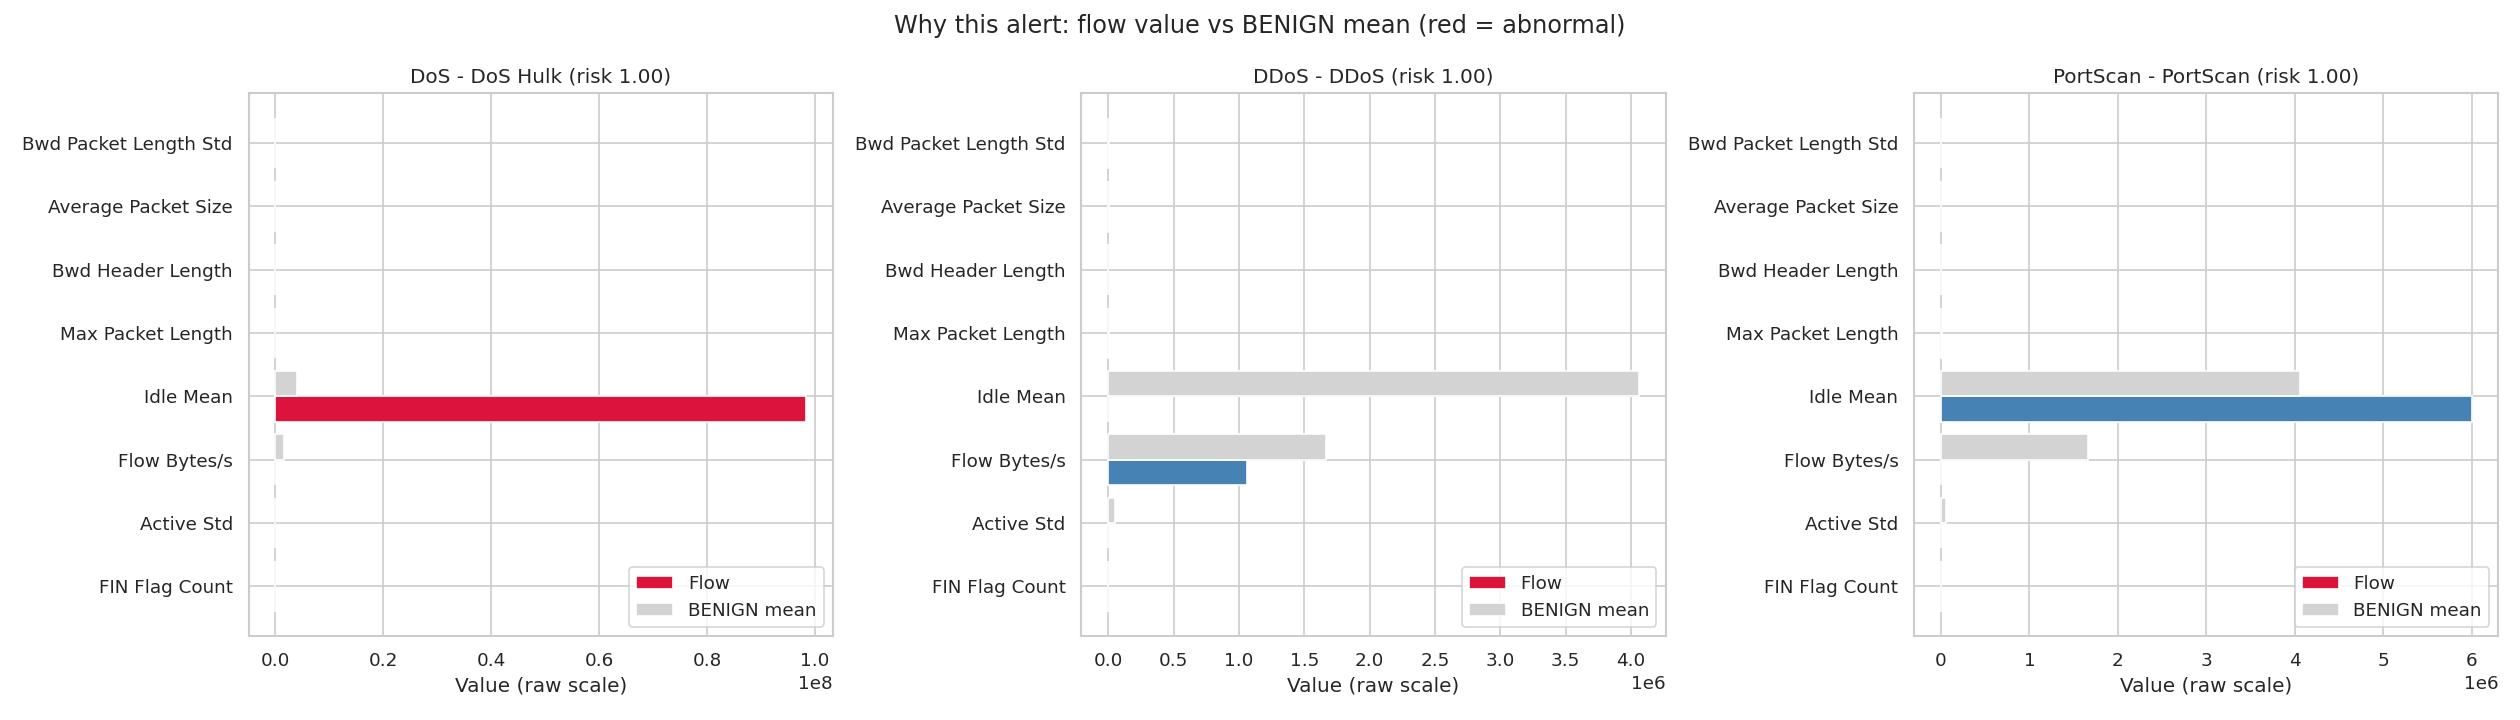
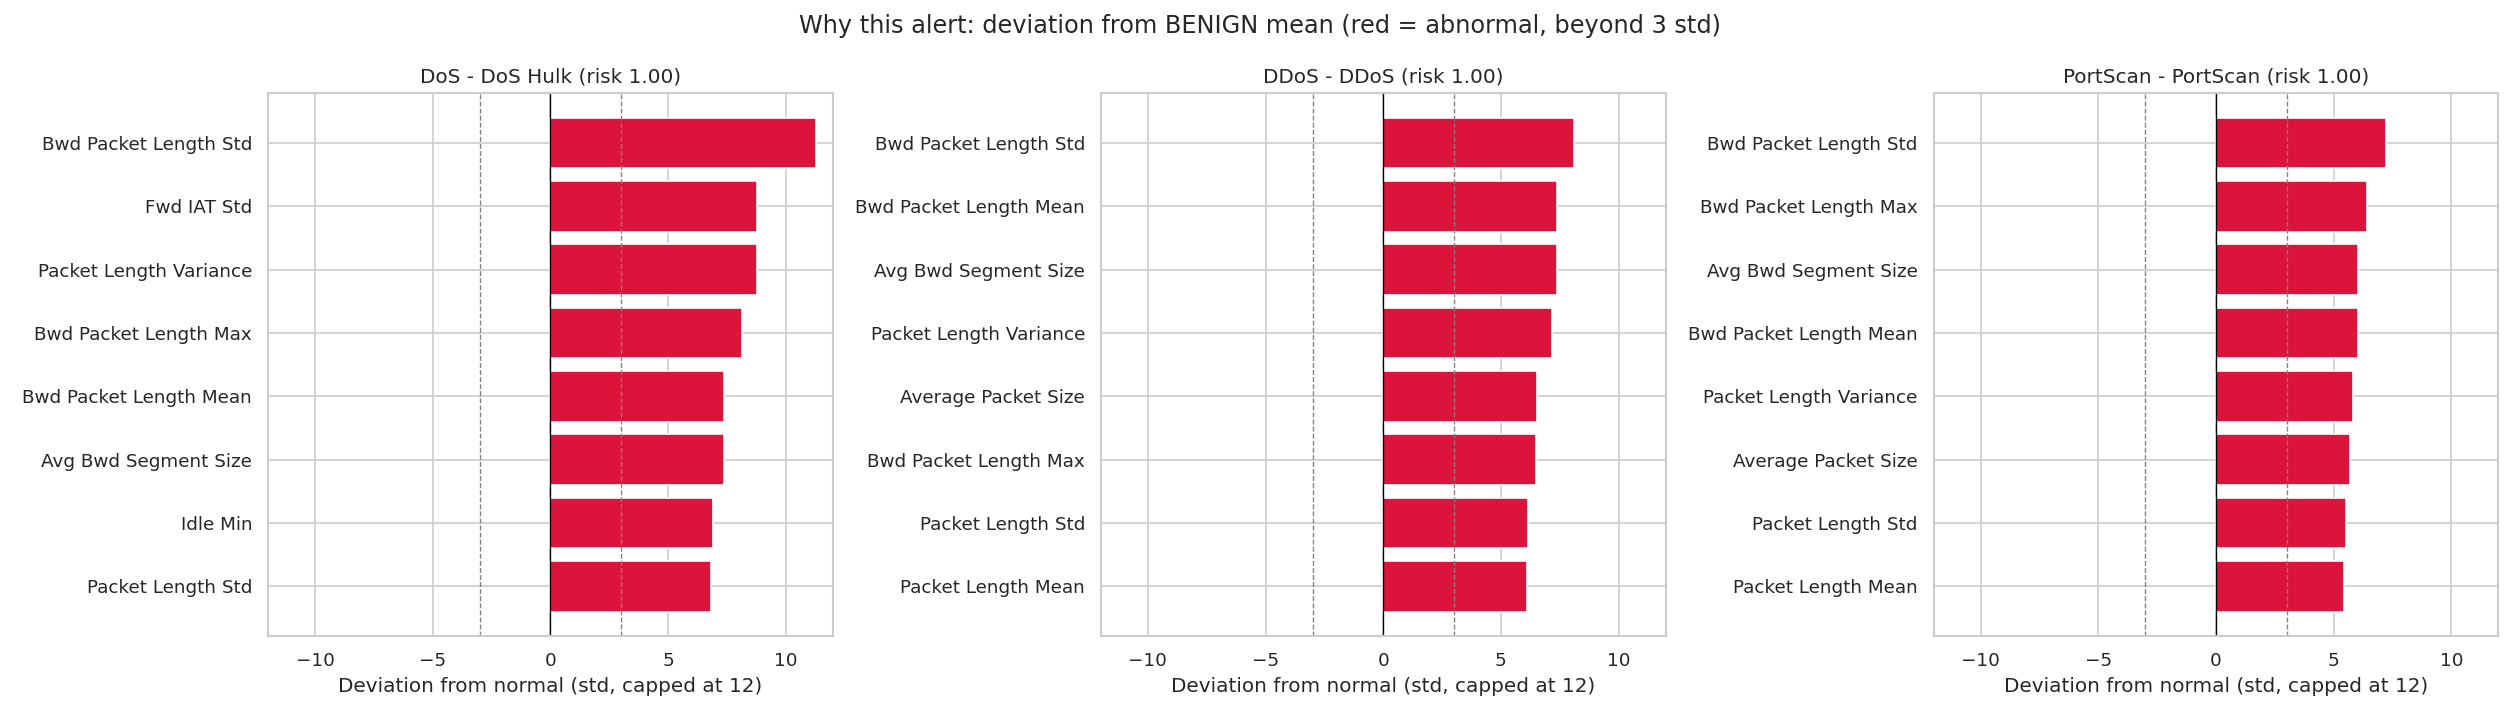
Fix per-alert explanation figure (report Fig 11)
Plot each feature's signed deviation from the BENIGN mean (z-score) instead of raw values, so all features share one comparable scale and the largest-magnitude feature (Idle Mean) no longer dominates the chart. Colour by |deviation| > 3 std in both directions (was a one-directional ratio > 2), so abnormally-low values are flagged too and 'red = abnormal' now matches the figure. Show the most-anomalous features per flow instead of the global top-8. Regenerates reports/figures/10_explication_alerte.png.

diff --git a/notebooks/04_evaluation.py b/notebooks/04_evaluation.py
@@ -192,14 +192,21 @@ plt.show()
 # %% [markdown]
 # ## Why this alert (per-flow explanation)
 #
-# For a few attack flows correctly detected by the best model, we compare the
-# flow value to the BENIGN mean on the top features. Red bars are the values that
-# deviate strongly from normal traffic: these are the reasons for the alert.
+# For one well-detected attack per family, we show how far each feature is from
+# normal traffic, measured in standard deviations from the BENIGN mean (z-score).
+# This puts every feature on the same scale. Bars beyond +/- 3 std are abnormal
+# (red) and point both ways: a feature can be abnormally high or abnormally low.
+# These abnormal features are the reasons for the alert.
 
 # %%
 df_eval = df.copy()
 df_eval["pred"] = y_pred_best
 df_eval["proba"] = proba_best
+
+# benign mean and std per feature (from the BENIGN flows of the test set)
+benign_mask = df["Label_binary"] == 0
+benign_mean = df.loc[benign_mask, features].mean()
+benign_std = df.loc[benign_mask, features].std().replace(0, np.nan)
 
 # one well-detected attack per family (highest risk score)
 target_families = ["DoS", "DDoS", "PortScan"]
@@ -210,28 +217,34 @@ for fam in target_families:
     if len(cand) > 0:
         alert_idx.append(cand["proba"].idxmax())
 
-top_features = importances.head(8).index.tolist()
-print("Top features used for the explanation:", top_features)
+threshold = 3.0   # abnormal if more than 3 std from the benign mean
+cap = 12.0        # cap the displayed deviation so the chart stays readable
 
 fig, axs = plt.subplots(1, len(alert_idx), figsize=(7 * len(alert_idx), 6))
 if len(alert_idx) == 1:
     axs = [axs]
 for i, idx in enumerate(alert_idx):
     row = df_eval.loc[idx]
-    flow_values = X.loc[idx, top_features].astype(float)
-    benign_values = benign_means[top_features].astype(float)
-    ratio = (flow_values / benign_values.replace(0, np.nan)).abs()
-    bar_colors = ["crimson" if (pd.notna(r) and r > 2.0) else "steelblue" for r in ratio]
-    y_pos = np.arange(len(top_features))
-    axs[i].barh(y_pos + 0.2, flow_values.values, height=0.4, color=bar_colors, label="Flow")
-    axs[i].barh(y_pos - 0.2, benign_values.values, height=0.4, color="lightgray", label="BENIGN mean")
+    # deviation of the flow from normal traffic, in standard deviations
+    z = (X.loc[idx, features].astype(float) - benign_mean) / benign_std
+    z = z.dropna()
+    z_top = z.reindex(z.abs().sort_values(ascending=False).index).head(8)
+    print(f"{row['Label_group']}: top abnormal features ->", list(z_top.index[:3]))
+
+    z_plot = z_top.iloc[::-1]                 # most abnormal on top
+    z_draw = z_plot.clip(-cap, cap)           # cap long bars for readability
+    bar_colors = ["crimson" if abs(v) > threshold else "steelblue" for v in z_plot.values]
+    y_pos = np.arange(len(z_plot))
+    axs[i].barh(y_pos, z_draw.values, color=bar_colors)
+    axs[i].axvline(0, color="black", linewidth=0.8)
+    axs[i].axvline(threshold, color="gray", linestyle="--", linewidth=0.8)
+    axs[i].axvline(-threshold, color="gray", linestyle="--", linewidth=0.8)
+    axs[i].set_xlim(-cap, cap)
     axs[i].set_yticks(y_pos)
-    axs[i].set_yticklabels(top_features)
-    axs[i].invert_yaxis()
-    axs[i].set_xlabel("Value (raw scale)")
+    axs[i].set_yticklabels(z_plot.index)
+    axs[i].set_xlabel("Deviation from normal (std, capped at 12)")
     axs[i].set_title(f"{row['Label_group']} - {row['Label']} (risk {row['proba']:.2f})")
-    axs[i].legend(loc="lower right")
-plt.suptitle("Why this alert: flow value vs BENIGN mean (red = abnormal)")
+plt.suptitle("Why this alert: deviation from BENIGN mean (red = abnormal, beyond 3 std)")
 plt.tight_layout()
 plt.savefig(BASE + "/reports/figures/10_explication_alerte.png", dpi=120)
 plt.show()